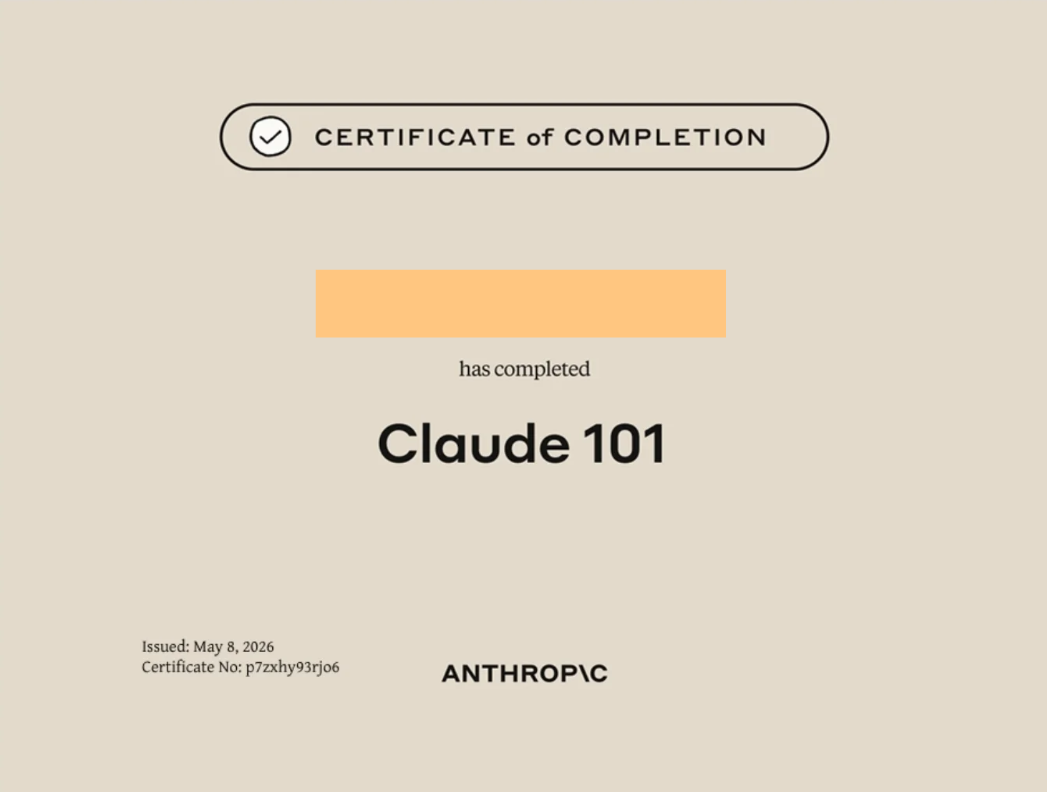
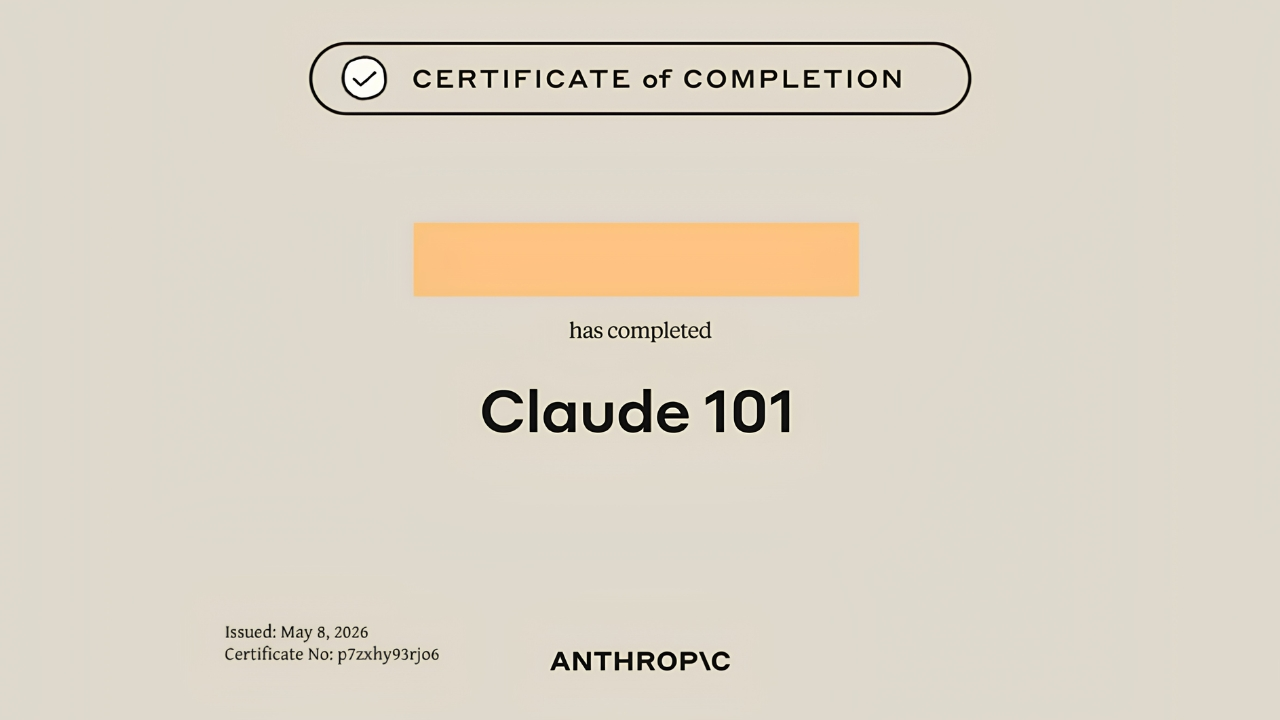
Fix image crop, remove inner figure margins in grid

diff --git a/src/index.css b/src/index.css
@@ -494,26 +494,38 @@
   font-weight: 600;
 }
 
-/* ── Image figure  ::image ── */
-.blog-figure { margin: 2rem 0; }
+/* Single image */
+.blog-figure {
+  margin: 2rem 0;
+}
+
 .blog-figure img {
   width: 100%;
-  border-radius: 6px;
+  height: auto;
   display: block;
-  border: 1px solid #E2E8F0;
+  border-radius: 6px;
+  border: none;
+  box-shadow: 0 2px 8px rgba(0, 0, 0, 0.08);
 }
+
 .blog-figure figcaption {
-  font-size: 0.85rem;
+  font-size: 0.8rem;
   color: #718096;
   text-align: center;
-  margin-top: 0.5rem;
+  margin-top: 0.4rem;
   font-style: italic;
   font-family: 'JetBrains Mono', monospace;
-  font-size: 0.7rem;
   letter-spacing: 0.05em;
 }
 
-/* ── Image grid  :::imagegrid ── */
+/* Facebook / portrait images — cap width so they don't stretch */
+.blog-figure.portrait img {
+  max-width: 480px;
+  margin-left: auto;
+  margin-right: auto;
+}
+
+/* 2-image grid */
 .blog-figure-grid {
   display: grid;
   grid-template-columns: repeat(auto-fit, minmax(280px, 1fr));
@@ -521,44 +533,34 @@
   margin: 2rem 0;
 }
 
-/* ── Tags footer strip ── */
-.blog-tags-strip {
-  border-top: 3px double #C8D9EC;
-  padding-top: 24px;
-  margin-top: 3rem;
-  display: flex;
-  flex-wrap: wrap;
-  gap: 8px;
-}
-.blog-tag {
-  font-family: 'JetBrains Mono', monospace;
-  font-size: 9.5px;
-  text-transform: uppercase;
-  letter-spacing: 0.12em;
-  border: 1px solid #C8D9EC;
-  padding: 4px 10px;
-  color: #718096;
-  background: #FAFAF7;
+/* 3-image grid */
+.blog-figure-grid-3 {
+  display: grid;
+  grid-template-columns: repeat(3, 1fr);
+  gap: 10px;
+  margin: 2rem 0;
 }
 
-/* ── Share CTA (bottom of post) ── */
-.blog-share-cta {
-  font-family: 'Lora', serif;
-  font-size: 1.1rem;
-  font-style: italic;
-  color: #718096;
-  text-align: center;
-  padding: 20px 24px;
-  background: #EDE8DC;
-  margin-top: 12px;
-  border-radius: 4px;
+/* 4-image 2×2 grid — zero margin on inner figures */
+.blog-figure-grid-4 {
+  display: grid;
+  grid-template-columns: repeat(2, 1fr);
+  gap: 2px;
+  margin: 2rem 0;
 }
 
-@media (prefers-reduced-motion: reduce) {
-  *, *::before, *::after {
-    animation-duration: 0.01ms !important;
-    transition-duration: 0.01ms !important;
+/* Remove extra margin on figures inside any grid */
+.blog-figure-grid .blog-figure,
+.blog-figure-grid-3 .blog-figure,
+.blog-figure-grid-4 .blog-figure {
+  margin: 0;
+}
+
+/* Mobile — all grids collapse to one column */
+@media (max-width: 640px) {
+  .blog-figure-grid,
+  .blog-figure-grid-3,
+  .blog-figure-grid-4 {
+    grid-template-columns: 1fr;
   }
-  .marquee-track { animation: none !important; }
-  .reveal { opacity: 1 !important; transform: none !important; }
 }

diff --git a/src/lib/blogLoader.js b/src/lib/blogLoader.js
@@ -47,7 +47,9 @@ function preprocessCustomBlocks(raw) {
 
   // Image grid: :::imagegrid ... :::
   out = out.replace(/:::imagegrid\n([\s\S]*?)\n:::/g, (_, inner) => {
-    const figures = inner.trim().split('\n').map(line => {
+    const lines = inner.trim().split('\n').filter(l => l.match(/::image\{/))
+    const count = lines.length
+    const figures = lines.map(line => {
       const m = line.match(/::image\{([^}]+)\}/)
       if (!m) return ''
       const attrs = m[1]
@@ -57,17 +59,26 @@ function preprocessCustomBlocks(raw) {
       const caption = captionMatch ? captionMatch[1] : ''
       return `<figure class="blog-figure"><img src="${src}" alt="${caption}" loading="lazy" />${caption ? `<figcaption>${caption}</figcaption>` : ''}</figure>`
     }).join('\n')
-    return `<div class="blog-figure-grid">${figures}</div>`
+
+    // Pick grid class based on image count
+    const gridClass = count === 4 ? 'blog-figure-grid-4'
+                    : count === 3 ? 'blog-figure-grid-3'
+                    : 'blog-figure-grid'
+
+    return `<div class="${gridClass}">${figures}</div>`
   })
 
   // Single image: ::image{src=/path caption="..."}
-  out = out.replace(/::image\{([^}]+)\}/g, (_, attrs) => {
-    const srcMatch = attrs.match(/src=([^\s]+)/)
-    const captionMatch = attrs.match(/caption="([^"]+)"/)
-    const src = srcMatch ? srcMatch[1] : ''
-    const caption = captionMatch ? captionMatch[1] : ''
-    return `<figure class="blog-figure"><img src="${src}" alt="${caption}" loading="lazy" />${caption ? `<figcaption>${caption}</figcaption>` : ''}</figure>`
-  })
+// Single image: ::image{src=/path caption="..." class="portrait"}
+out = out.replace(/::image\{([^}]+)\}/g, (_, attrs) => {
+  const srcMatch = attrs.match(/src=([^\s]+)/)
+  const captionMatch = attrs.match(/caption="([^"]+)"/)
+  const classMatch = attrs.match(/class="([^"]+)"/)
+  const src = srcMatch ? srcMatch[1] : ''
+  const caption = captionMatch ? captionMatch[1] : ''
+  const extraClass = classMatch ? ` ${classMatch[1]}` : ''
+  return `<figure class="blog-figure${extraClass}"><img src="${src}" alt="${caption}" loading="lazy" />${caption ? `<figcaption>${caption}</figcaption>` : ''}</figure>`
+})
 
   // Pull quote: :::pullquote -- Citation\n...\n:::
   out = out.replace(/:::pullquote(?:\s+--\s+(.+))?\n([\s\S]*?)\n:::/g, (_, cite, body) => {

diff --git a/src/posts/anthropic-academy-free-courses.md b/src/posts/anthropic-academy-free-courses.md
@@ -6,10 +6,13 @@ tags: ["AI Education", "Free Courses", "Claude", "Machine Learning", "Career"]
 cover: ""
 type: "article"
 ---
+::image{src=/blog/anthropic-academy-free-courses/01.jpg caption="The Anthropic Academy course catalogue at anthropic.skilljar.com"}
 
-There is a pattern I keep seeing in my students. They want to become AI engineers. They search online, find a $200 Udemy course, hesitate, and end up doing nothing. Meanwhile, one of the most structured free AI curricula available anywhere on the internet has been sitting at a single URL since March 2026 — and most people in my classes have never heard of it.
+Most students think learning AI requires expensive courses, subscriptions, or bootcamps. Yet one of the most comprehensive AI curricula available today is completely free, officially developed by Anthropic, and still largely unknown outside a relatively small circle of developers and educators.
 
-That URL is **anthropic.skilljar.com**. And what Anthropic has built there is worth your full attention.
+I see the same pattern repeatedly in my students. They want to become AI engineers. They search online, find a $200 course, hesitate, and end up doing nothing. Meanwhile, one of the most structured free AI curricula available anywhere on the internet has been sitting at a single URL since March 2026 — and most people in my classes have never heard of it.
+
+That URL is anthropic.skilljar.com. And what Anthropic has built there is worth your full attention.
 
 ::section 01 — What It Is
 
@@ -21,12 +24,10 @@ The short version: 13 free courses, real certificates, no credit card, no paywal
 
 I want to be specific about what "free" means here because I have seen too many "free" platforms that gate the useful parts behind a subscription. Every one of the 13+ self-paced courses requires only an email to enroll, with no Claude subscription, credit card, or hidden upsells, and each course awards an official Anthropic certificate on completion.
 
-That last part matters. These are not participation badges. Anthropic issues an official LinkedIn-ready certificate on completion — something that actually signals something to a hiring manager when you put it on your profile.
 
-:::imagegrid
-::image{src=/blog/anthropic-academy-free-courses/01.jpg caption="The Anthropic Academy course catalogue at anthropic.skilljar.com"}
-::image{src=/blog/anthropic-academy-free-courses/02.jpg caption="Learning tracks from AI Fluency through to Cloud Deployment"}
-:::
+That last part matters. These are not participation badges. Anthropic issues an official LinkedIn-ready certificate on completion. While certificates alone do not secure jobs, they provide verifiable evidence of structured learning and can strengthen a portfolio when paired with practical projects and real-world experience..
+
+::image{src=/blog/anthropic-academy-free-courses/04.jpg caption="Course completion certificates are official and LinkedIn-ready"}
 
 ::section 02 — The Five Learning Tracks
 
@@ -44,15 +45,32 @@ For researchers and academics who want to use Claude to improve their own workfl
 This is the API course — the core 8+ hour investment. Everything else builds on it. Claude 101 → AI Fluency → Building with the Claude API → Introduction to MCP. If you want to build AI-powered applications, start here. Fair warning: courses in the Developer Deep-Dives track require actual Claude API usage during exercises.
 
 **Track 4 — MCP (Model Context Protocol)**
-This covers MCP intro, MCP advanced topics, and connects AI to tools, documents, databases, and services. MCP is arguably the most important protocol in applied AI right now — it is how Claude connects to external systems. If you want to build agents that actually *do* things rather than just talk, this track is where it gets real.
+This covers MCP intro, MCP advanced topics, and connects AI to tools, documents, databases, and services. MCP is rapidly emerging as one of the most influential standards for connecting AI systems to tools, documents, databases, and external services. If you want to build agents that actually *do* things rather than just talk, this track is where it gets real.
 
 **Track 5 — Cloud and Enterprise Deployment**
 This covers deploying Claude on AWS Bedrock and Google Vertex AI at production scale. Aimed at developers and ML engineers who need to deploy systems for real organizations, not just run notebooks locally.
 
 :::imagegrid
-::image{src=/blog/anthropic-academy-free-courses/03.jpg caption="The structured learning path from beginner to advanced deployment"}
-::image{src=/blog/anthropic-academy-free-courses/04.jpg caption="Course completion certificates are official and LinkedIn-ready"}
+::image{src=/blog/anthropic-academy-free-courses/02.jpg caption=" AI Fluency Track"}
+::image{src=/blog/anthropic-academy-free-courses/06.jpg caption="MCP (Model Context Protocol)"}
+::image{src=/blog/anthropic-academy-free-courses/03.jpg caption=" Developer Deep-Dives"}
+::image{src=/blog/anthropic-academy-free-courses/07.jpg caption="Cloud and Enterprise Deployment"}
 :::
+
+::image{src=/blog/anthropic-academy-free-courses/05.jpg caption=" The complete Anthropic Academy roadmap" class="portrait"}
+
+::section 02.5 — Why This Matters
+
+## Why Anthropic Academy Matters in 2026
+
+Three things make Anthropic Academy different from most online AI courses.
+
+First, it is maintained by the company building Claude itself. The material evolves alongside the platform rather than being updated months later by a third party.
+
+Second, it includes structured training on Model Context Protocol (MCP), one of the fastest-growing standards for connecting AI systems to external tools and data sources.
+
+Third, it provides a coherent pathway from AI literacy to production deployment. Many AI courses teach isolated tools. Anthropic Academy teaches an ecosystem.
+
 
 ::section 03 — Total Time Investment
 
@@ -103,16 +121,22 @@ I have reviewed a lot of AI courses. Most of them fall into one of three failure
 
 What I particularly respect is that educator-specific tracks were co-developed with professors from Ringling College and University College Cork and released under Creative Commons. That is not a marketing decision — that is a signal that the curriculum was designed with serious educational intent.
 
-Separately from the Skilljar courses, Anthropic maintains an open-source course repository on GitHub with five hands-on tutorials built as Jupyter notebooks: API Fundamentals, a Prompt Engineering Interactive Tutorial, Real World Prompting, and Prompt Evaluations. For students who want to go deeper after the Skilljar courses, the GitHub repository is your next stop.
+Beyond the Skilljar courses, Anthropic also maintains an open-source learning repository on GitHub containing hands-on Jupyter notebook tutorials covering API fundamentals, prompt engineering, real-world prompting, and evaluation workflows. Think of it as the practical companion to the Academy courses. The Academy provides the structured curriculum; the GitHub repository provides additional opportunities to experiment and build.
 
-The one legitimate limitation: all Anthropic Academy courses are currently available in English only. For my students at Hainan University for whom English is a second language, this adds friction. There are community workarounds but no official translations yet.
+The one legitimate limitation: all Anthropic Academy courses are currently available in English only.
 
 :::callout 🎯 The honest bottom line
-If you are a student, researcher, educator, or developer who has been waiting for a structured, free, and credible path into applied AI — this is it. Thirteen courses. Official certificates. No credit card. The only thing standing between you and starting is an email address and the decision to begin.
+If you are a student, researcher, educator, or developer who has been waiting for a structured, free, and credible path into applied AI, Anthropic Academy is one of the best starting points available today.
+
+Most people spend more time searching for the perfect AI course than actually learning AI. Anthropic Academy removes that excuse. The curriculum is free, structured, practical, and backed by one of the leading AI companies in the world.
+
+Thirteen courses. Official certificates. No credit card.
+
+All you need is an email address and the decision to begin.
 
 Enroll at **anthropic.skilljar.com**
 :::
 
-::image{src=/blog/anthropic-academy-free-courses/05.jpg caption="From the original post — the complete Anthropic Academy roadmap"}
+
 
 **Have you taken any of the Anthropic Academy courses?** I would like to hear which track you found most useful and whether you recommend it to others. Leave your thoughts in the contact form below or reach out directly.
